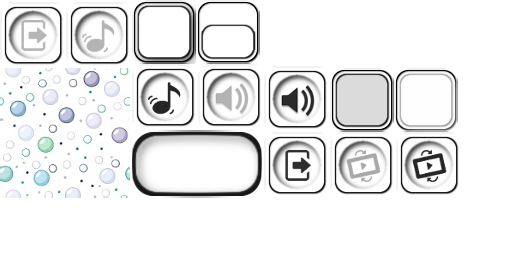
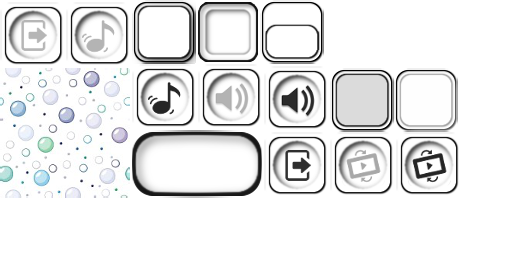
Added label skin. Fixed bug with saving config on Android

Changed region(s): [[0.375, 0.0, 0.6562, 0.25]]

diff --git a/SortItOut/src/com/me/sortitout/Settings.java b/SortItOut/src/com/me/sortitout/Settings.java
@@ -17,7 +17,7 @@ public class Settings {
         public static void load () {
                 BufferedReader in = null;
                 try {
-                        in = new BufferedReader(new InputStreamReader(Gdx.files.external(file).read()));
+                        in = new BufferedReader(new InputStreamReader(Gdx.files.local(file).read()));
                         soundEnabled = Boolean.parseBoolean(in.readLine());
                         musicEnabled = Boolean.parseBoolean(in.readLine());
                         for (int i = 0; i < 5; i++) {
@@ -36,7 +36,7 @@ public class Settings {
         public static void save () {
                 BufferedWriter out = null;
                 try {
-                        out = new BufferedWriter(new OutputStreamWriter(Gdx.files.external(file).write(false)));
+                        out = new BufferedWriter(new OutputStreamWriter(Gdx.files.local(file).write(false)));
                         out.write(Boolean.toString(soundEnabled).concat("\n"));
                         out.write(Boolean.toString(musicEnabled).concat("\n"));
                         for (int i = 0; i < 5; i++) {

diff --git a/SortItOut/src/com/me/sortitout/screens/GameScreen.java b/SortItOut/src/com/me/sortitout/screens/GameScreen.java
@@ -81,9 +81,9 @@ public class GameScreen implements Screen {
 							gameOverDialog.hide();
 						}
 					}.text("You win!").button(" Menu ", false).button(" New ", true).key(Keys.ENTER, true).key(Keys.ESCAPE, false);
-		label1 = new Label("", Assets.skin);
+		label1 = new Label("", Assets.skin, "gamelabel");
 		label1.setAlignment(Align.center);
-		label2 = new Label("", Assets.skin);
+		label2 = new Label("", Assets.skin, "gamelabel");
 		label2.setAlignment(Align.center);
         
 		
